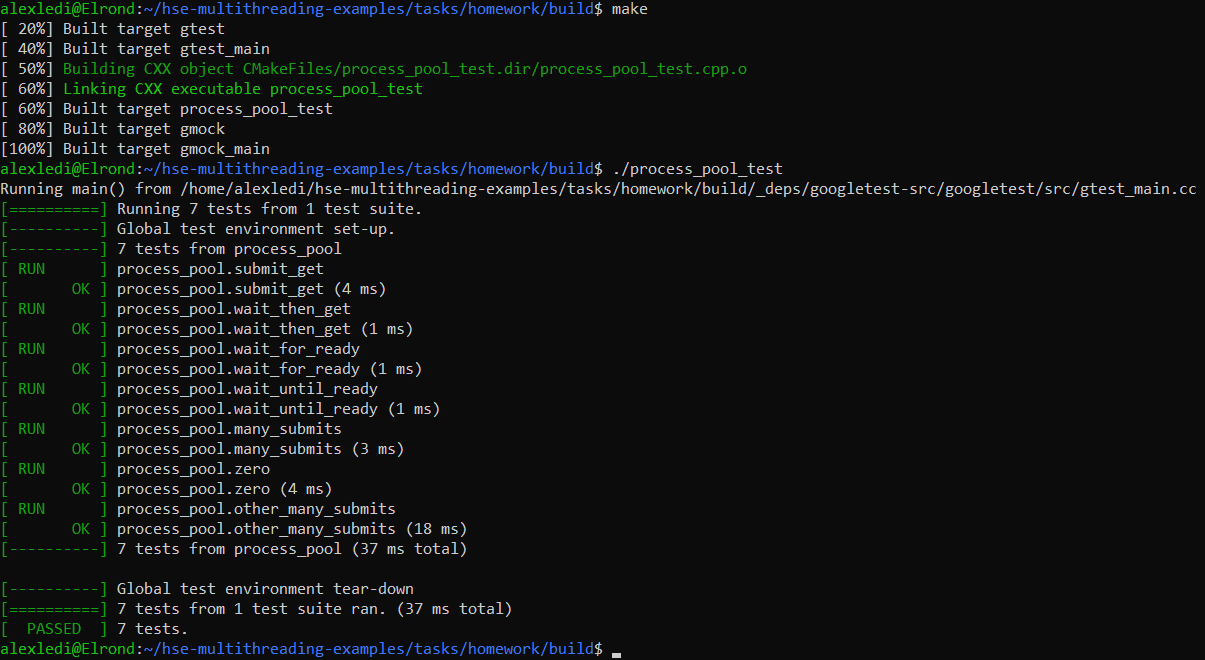
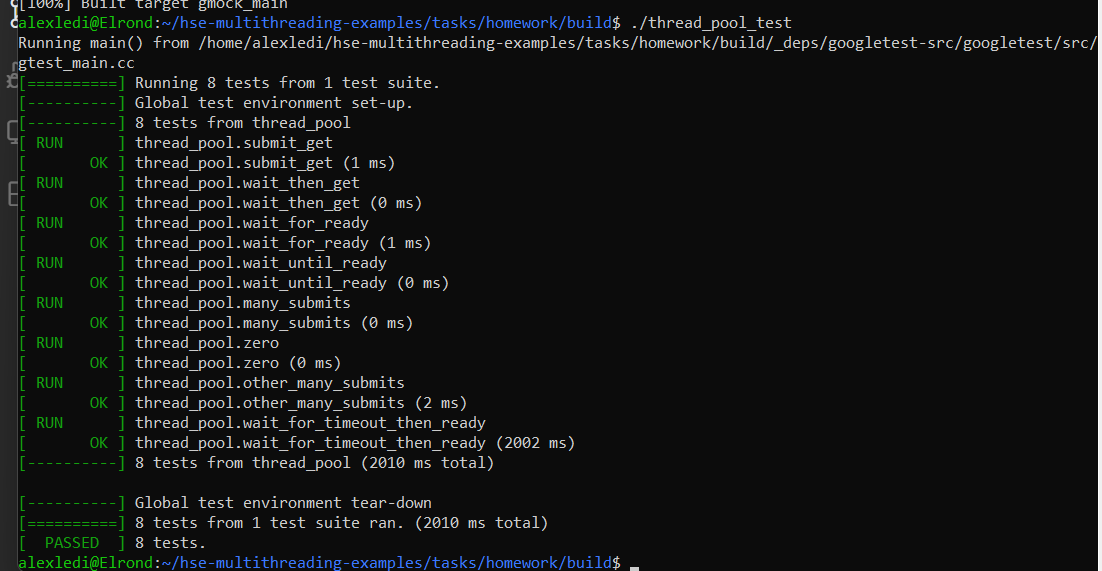
Change to thread pool

Changed region(s): [[0.0, 0.0, 1.0, 1.0]]

diff --git a/tasks/homework/thread_pool.hpp b/tasks/homework/thread_pool.hpp
@@ -7,9 +7,11 @@
 #include <memory>
 #include <mutex>
 #include <optional>
+#include <queue>
+#include <thread>
+#include <type_traits>
 #include <utility>
-#include <sys/wait.h>
-#include <unistd.h>
+#include <vector>
 
 template <typename T>
 struct shared_state {
@@ -79,71 +81,58 @@ public:
     }
 };
 
-class process_pool {
-    size_t max_children;
+class thread_pool {
     std::mutex mtx;
     std::condition_variable cond_var;
-    size_t running_children{0};
+    size_t max_threads{0};
+    bool stop{false};
+    std::queue<std::function<void()>> tasks;
+    std::vector<std::jthread> threads;
 public:
-    explicit process_pool(size_t n) {
-        if (n == 0) {
-            max_children = 1;
+    explicit thread_pool(size_t n) {
+        if (n > 0) {
+            max_threads = n;
         } else {
-            max_children = n;
+            max_threads = 1;
         }
+        threads.reserve(max_threads);
+        for (int i = 0; i < max_threads; ++i) {
+            threads.emplace_back([&] {
+                while (true) {
+                    std::unique_lock<std::mutex> lock(mtx);
+                    cond_var.wait(lock, [&] {
+                        return (stop || (tasks.size() > 0));
+                    });
+                    if (stop && tasks.empty()) {
+                        return;
+                    }
+                    auto task = std::move(tasks.front());
+                    tasks.pop();
+                    lock.unlock();
+                    task();
+                }
+            });
+        }
+    }
+
+    ~thread_pool() {
+        std::lock_guard<std::mutex> lock(mtx);
+        stop = true;
+        cond_var.notify_all();
     }
 
     template <typename T>
     my_future<T> submit(std::function<T()> func) {
         auto state = std::make_shared<shared_state<T>>();
-        std::unique_lock<std::mutex> lock(mtx);
-        cond_var.wait(lock, [&] {
-            return running_children < max_children;
+        std::lock_guard<std::mutex> lock(mtx);
+        tasks.emplace([state, func]() {
+            T result = func();
+            std::lock_guard<std::mutex> state_lock(state -> mutex);
+            state -> value = std::move(result);
+            state -> ready = true;
+            state -> cond_var.notify_all();
         });
-        ++running_children;
-        lock.unlock();
-        int pipefd[2];
-        if (pipe(pipefd) != 0) {
-            lock.lock();
-            if (running_children > 0) {
-                --running_children;
-            }
-            cond_var.notify_all();
-            return my_future<T>(state);
-        }
-        const pid_t pid = fork();
-        if (pid < 0) {
-            close(pipefd[0]);
-            close(pipefd[1]);
-            lock.lock();
-            if (running_children > 0) {
-                --running_children;
-            }
-            cond_var.notify_all();
-            return my_future<T>(state);
-        }
-        if (pid == 0) {
-            close(pipefd[0]);
-            T child_result = func();
-            write(pipefd[1], &child_result, sizeof(T));
-            close(pipefd[1]);
-            exit(0);
-        }
-        close(pipefd[1]);
-        const int read_fd = pipefd[0];
-        T result{};
-        read(read_fd, &result, sizeof(T));
-        std::lock_guard<std::mutex> value_lock(state -> mutex);
-        state -> value = result;
-        state -> ready = true;
-        state -> cond_var.notify_all();
-        close(read_fd);
-        waitpid(pid, nullptr, 0);
-        lock.lock();
-        if (running_children > 0) {
-            --running_children;
-        }
-        cond_var.notify_all();
+        cond_var.notify_one();
         return my_future<T>(state);
     }
 };

diff --git a/tasks/homework/thread_pool_test.cpp b/tasks/homework/thread_pool_test.cpp
@@ -5,10 +5,10 @@
 #include <vector>
 #include <unistd.h>
 
-#include "process_pool.hpp"
+#include "thread_pool.hpp"
 
-TEST(process_pool, submit_get) {
-    process_pool pool(4);
+TEST(thread_pool, submit_get) {
+    thread_pool pool(4);
     auto task_future = pool.submit<int>([] {
         return 18 + 12;
     });
@@ -17,8 +17,8 @@ TEST(process_pool, submit_get) {
     EXPECT_FALSE(task_future.valid());
 }
 
-TEST(process_pool, wait_then_get) {
-    process_pool pool(4);
+TEST(thread_pool, wait_then_get) {
+    thread_pool pool(4);
     auto task_future = pool.submit<int>([] {
         return 2 * 2;
     });
@@ -26,8 +26,8 @@ TEST(process_pool, wait_then_get) {
     EXPECT_EQ(task_future.get(), 4);
 }
 
-TEST(process_pool, wait_for_ready) {
-    process_pool pool(4);
+TEST(thread_pool, wait_for_ready) {
+    thread_pool pool(4);
     auto task_future = pool.submit<int>([] {
         return 1 << 20;
     });
@@ -37,8 +37,8 @@ TEST(process_pool, wait_for_ready) {
     EXPECT_EQ(task_future.get(), 1048576);
 }
 
-TEST(process_pool, wait_until_ready) {
-    process_pool pool(4);
+TEST(thread_pool, wait_until_ready) {
+    thread_pool pool(4);
     auto task_future = pool.submit<bool>([] {
         return true;
     });
@@ -47,8 +47,8 @@ TEST(process_pool, wait_until_ready) {
     EXPECT_EQ(task_future.get(), true);
 }
 
-TEST(process_pool, many_submits) {
-    process_pool pool(2);
+TEST(thread_pool, many_submits) {
+    thread_pool pool(2);
     EXPECT_EQ(pool.submit<int>([] {
         return 1 << 5;
     }).get(), 32);
@@ -60,22 +60,33 @@ TEST(process_pool, many_submits) {
     }).get(), 1048576);
 }
 
-TEST(process_pool, zero) {
-    process_pool pool(0);
+TEST(thread_pool, zero) {
+    thread_pool pool(0);
     EXPECT_EQ(pool.submit<int>([] {
         return 42;
     }).get(), 42);
 }
 
-TEST(process_pool, other_many_submits) {
+TEST(thread_pool, other_many_submits) {
     constexpr int n = 8;
-    process_pool pool(4);
+    thread_pool pool(4);
     int sum = 0;
     for (int i = 0; i < n; ++i) {
         sum += pool.submit<int>([i] {
             return i * i;
         }).get();
     }
-    const int expected = 0 + 1 + 4 + 9 + 16 + 25 + 36 + 49;
+    constexpr int expected = 0 + 1 + 4 + 9 + 16 + 25 + 36 + 49;
     EXPECT_EQ(sum, expected);
+}
+
+TEST(thread_pool, wait_for_timeout_then_ready) {
+    thread_pool pool(4);
+    auto task_future = pool.submit<int>([] {
+        std::this_thread::sleep_for(std::chrono::seconds(2));
+        return 17;
+    });
+    EXPECT_EQ(task_future.wait_for(std::chrono::seconds(1)), my_future<int>::timeout);
+    EXPECT_EQ(task_future.get(), 17);
+    EXPECT_FALSE(task_future.valid());
 }
